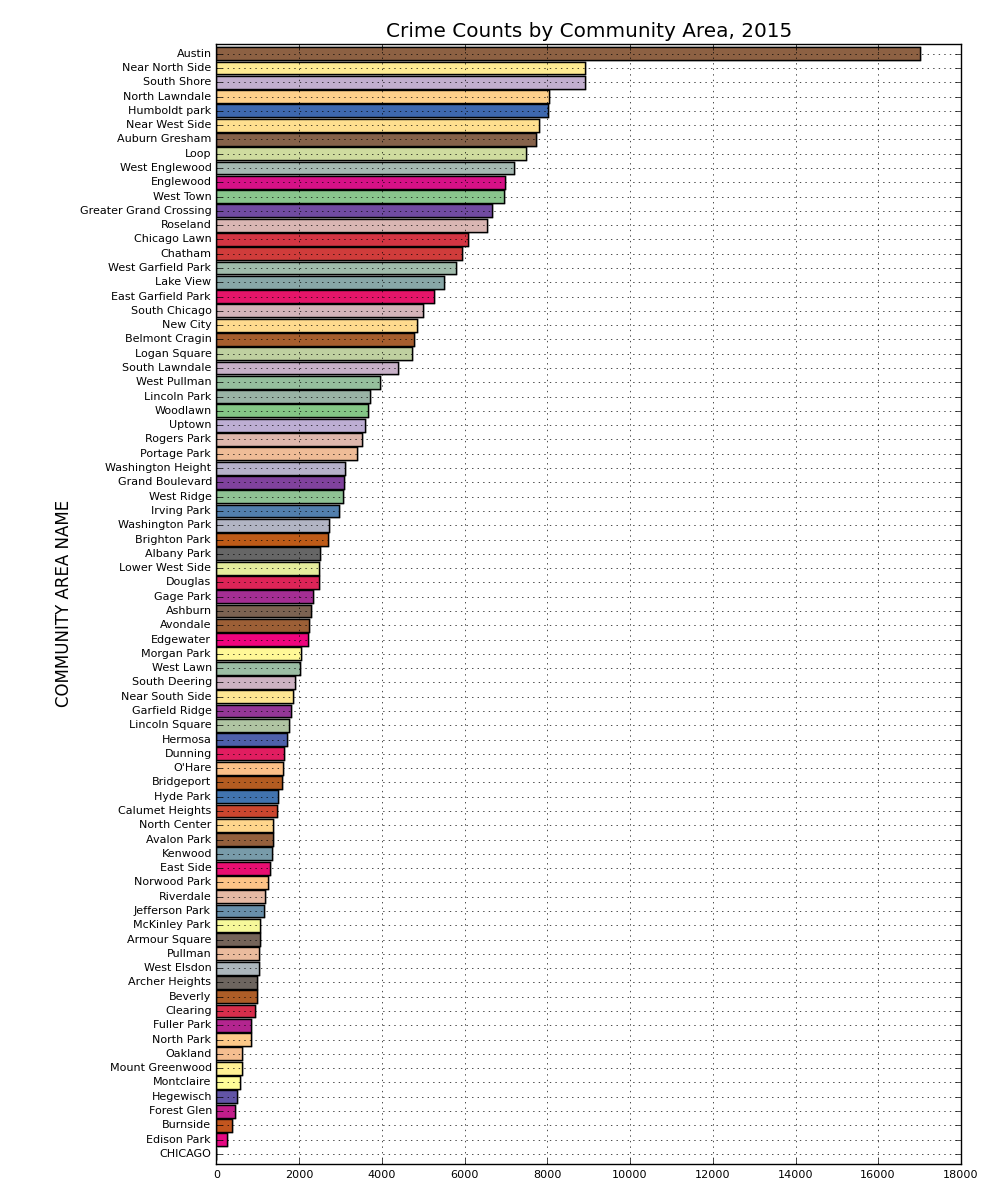
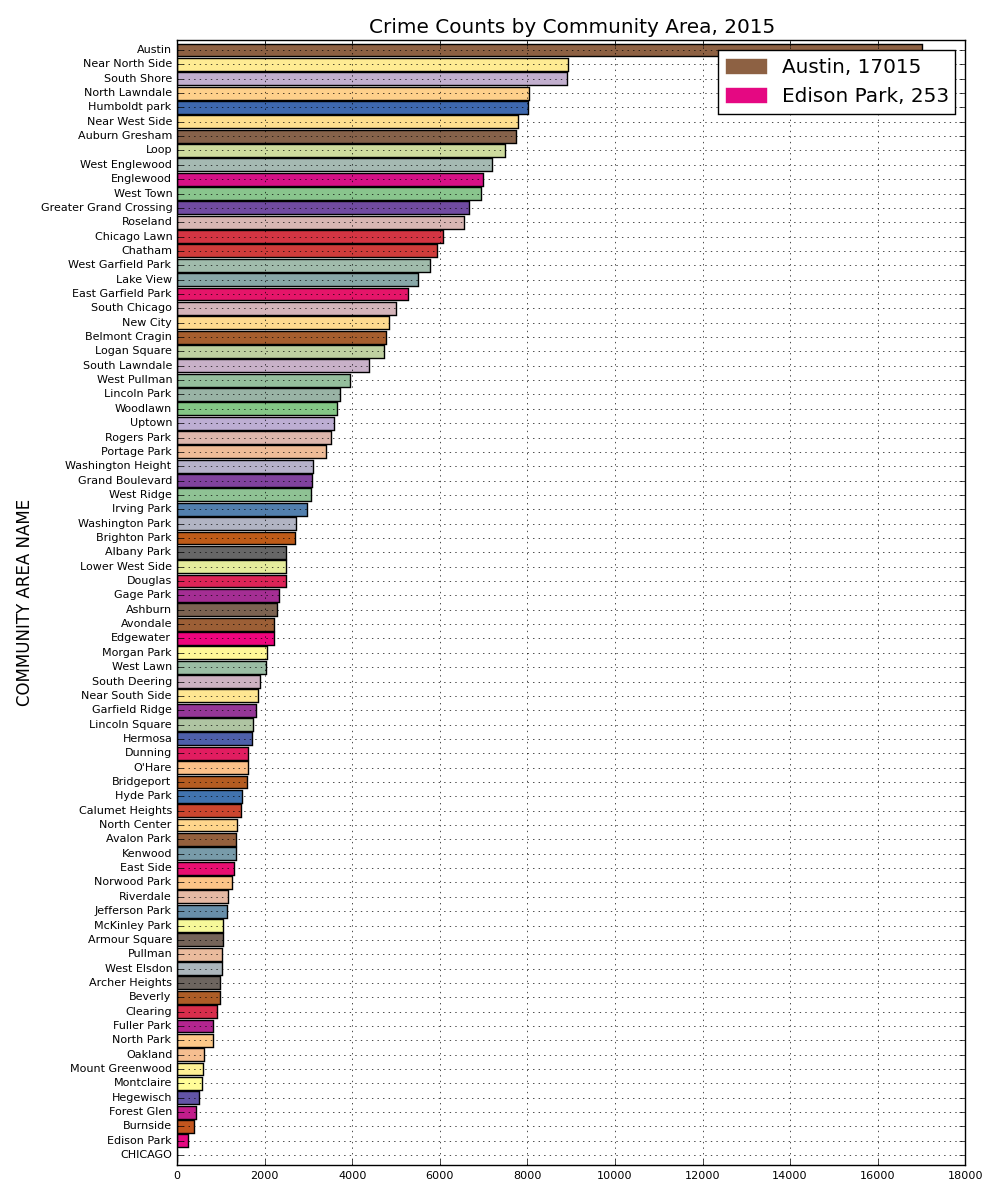
PA2 Fixed proxy patches legends througout.

Changed region(s): [[0.0, 0.0, 0.992, 0.9867]]

diff --git a/pa2/pa2.py b/pa2/pa2.py
@@ -393,16 +393,24 @@ doc = 'crime_count_bycommunity.png'
 t = 'Crime Counts by Community Area, 2015'
 plt.title(t)
 
+proxy_patches = []
+proxy_labels = []
 community_colors_list = []
 for n in community_crime_count.index:
     community_colors_list.append(chi.get_community(n).color)
+    if ((chi.get_community(n).count == community_crime_count.max())
+        | (chi.get_community(n).count == community_crime_count[76])):
+        proxy_patch = patches.Patch(color=chi.get_community(n).color)
+        proxy_labels.append("{}, {}".format(chi.get_community(n).name,
+                            chi.get_community(n).count))
+        proxy_patches.append(proxy_patch)
 
 xs = np.arange(community_crime_count.size)
 w = 0.9
 community_crime_count.plot(kind='barh', width=w, fontsize=8,
                            grid=True, color=community_colors_list)
 plt.gca().invert_yaxis()
-
+plt.legend(proxy_patches, proxy_labels)
 plt.gcf().tight_layout()
 fig.savefig(doc)
 
@@ -609,7 +617,7 @@ for n in geo_sum.index:
     if n in interesting_places:
         proxy_patch = patches.Patch(color=chi.get_community(n).color)
         proxy_labels.append("{}, {}".format(chi.get_community(n).name,
-                            geo_sum[geo_sum.index==n][community_pop].mean()))
+                            int(geo_sum[geo_sum.index==n][community_pop].mean())))
         proxy_patches.append(proxy_patch)
 
 xs = np.arange(geo_sum.size)
